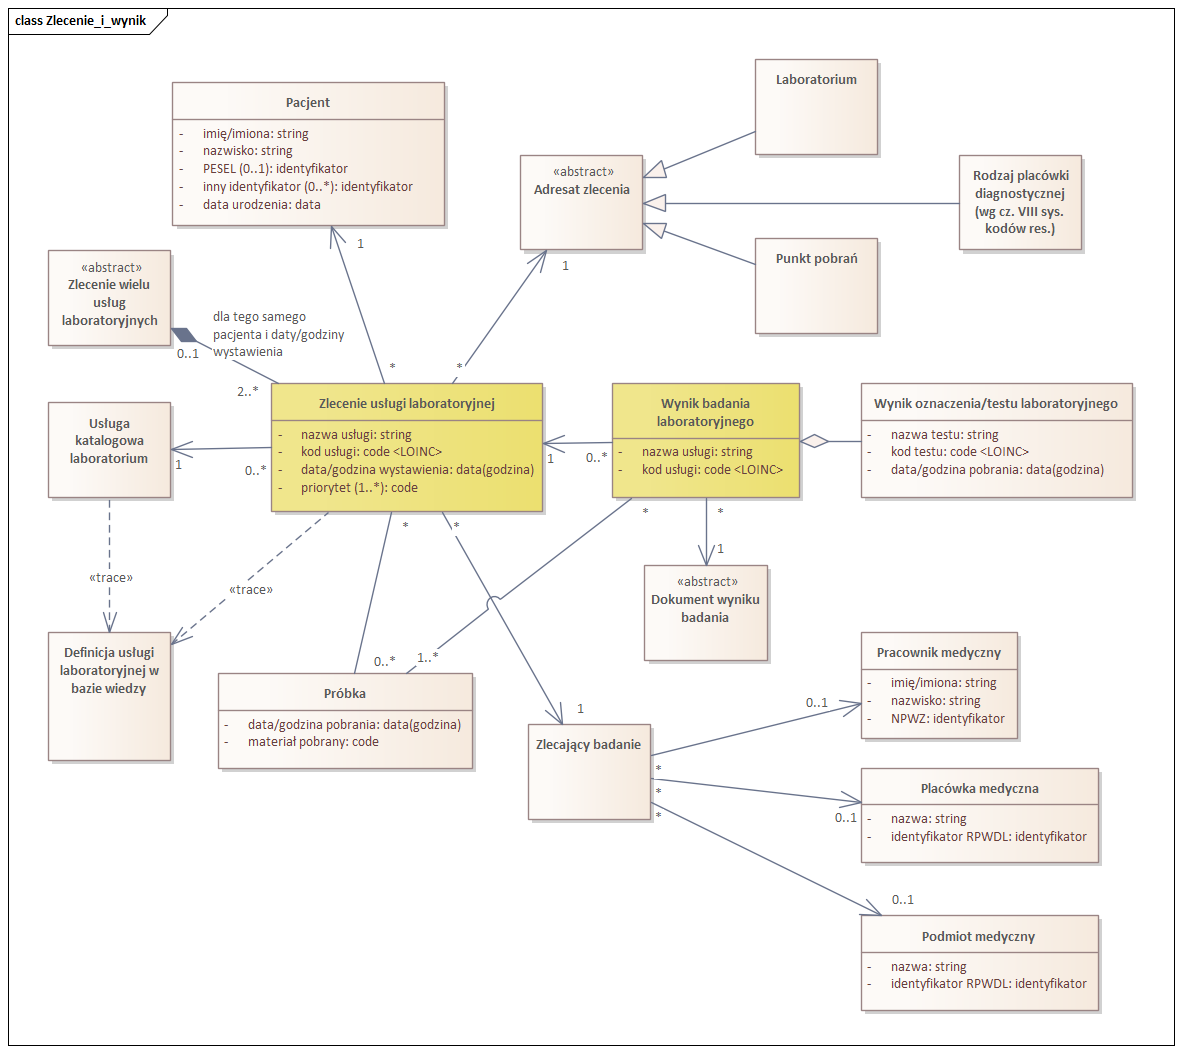
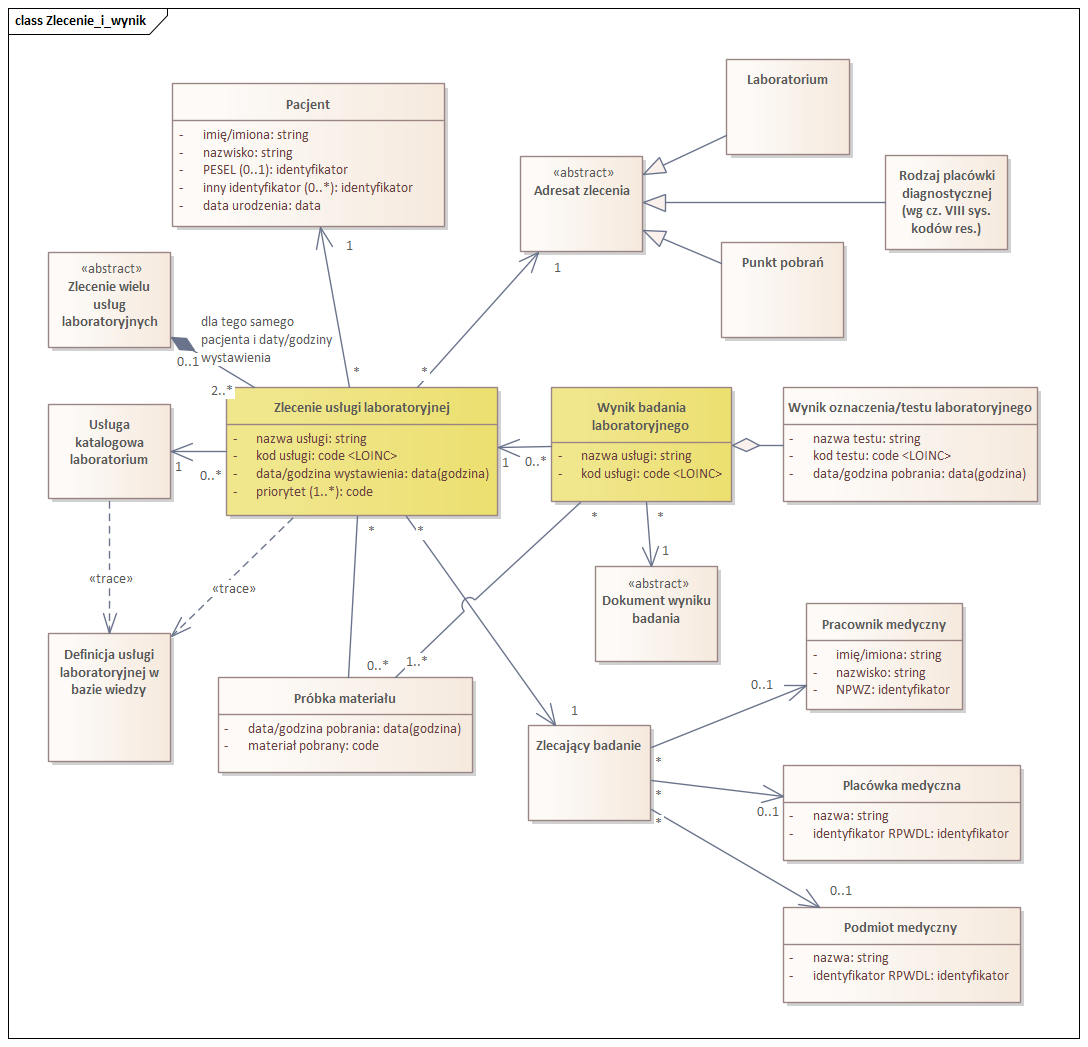
Cosmetics

diff --git a/input/pagecontent/index.md b/input/pagecontent/index.md
@@ -1,5 +1,7 @@
 Specyfikacja ma charakter roboczy i zawiera reguły wymiany danych w zakresie usług katalogowych i terminologicznych udostępnianych przez prototyp SSIDL (System Standaryzacji Informacji w Diagnostyce Laboratoryjnej). Specyfikacja powstała w ramach [projektu "Wdrożenie słownika LOINC w obszarze diagnostyki laboratoryjnej oraz opracowanie prototypu Systemu Standaryzacji Informacji w Diagnostyce Laboratoryjnej"](https://loinc-ssidl.umed.pl/) finansowanego ze środków Krajowego Planu Odbudowy i Zwiększania Odporności Komponent D Efektywność, dostępność i jakość systemu ochrony zdrowia Inwestycja D3.1.1 Kompleksowy rozwój badań w zakresie nauk medycznych i nauk o zdrowiu. Nr umowy: 2024/ABM/03/KPO/KPOD.07.07-IW.07-0171/24-00"
 
+![](assets\diagrams\SSIDL_logotyp_wersja_100x100.png)
+
 Głównym celem projektu jest rozwinięcie polskojęzycznej wersji systemu nazewnictwa LOINC oraz implementacja go do prototypu systemu SSIDL, który ułatwiłby wymianę danych dotyczących badań laboratoryjnych pomiędzy różnymi strukturami systemu ochrony zdrowia oraz pacjentem. Opracowanie i wdrożenie systemu opartego o nazewnictwo LOINC w laboratoriach ma na celu umożliwienie standaryzacji danych diagnostycznych, poprawę jakości i spójności raportów oraz integrację z innymi systemami informatycznymi.
 
 Specyfikacja jest powiązana z opracowywaną równolegle przez [Polskie Stowarzyszenie HL7](https://hl7.org.pl/) roboczą wersją specyfikacji krajowej dla diagnostyki laboratoryjnej oraz bazową specyfikacją krajową standardu HL7 FHIR i specyfikacjami europejskimi. Uzupełnieniem specyfikacji interperacyjności prototypu SSIDL jest [specyfikacja wymiany zleceń i wyników badań laboratoryjnych](exchange_artifacts.html), która również została opracowana w ramach projektu LOINC-SSIDL i docelowo ma stanowić część specyfikacji krajowej stnadardu HL7 FHIR dla diagnostyki laboratoryjnej.

diff --git a/input/pagecontent/exchange_model.md b/input/pagecontent/exchange_model.md
@@ -1,3 +1,3 @@
-Uzupełnieniem specyfikacji interoperacyjności prototypu SSIDL jest **Specyfikacja wymiany zleceń i wyników badań laboratoryjnych**, która została opracowana w ramach projektu LOINC-SSIDL i docelowo ma stanowić część powstającej równolegle specyfikacji krajowej standardu HL7 FHIR dla diagnostyki laboratoryjnej. Transakcje wymiany zleceń i wyników pomiędzy systemami szpitalno-gabinetowymi, a systemami laboratoryjnymi nie wymagają bezpośredniego udziału prototypu SSIDL, ale wchodzą w zakres testów intereorpacyjkności, które są planowane do przeprowadzenia w ramach etapu 3 projektu.
+Uzupełnieniem specyfikacji interoperacyjności prototypu SSIDL jest **Specyfikacja wymiany zleceń i wyników badań laboratoryjnych**, która została opracowana w ramach projektu LOINC-SSIDL i docelowo ma stanowić część powstającej równolegle specyfikacji krajowej standardu HL7 FHIR dla diagnostyki laboratoryjnej. Transakcje wymiany zleceń i wyników pomiędzy systemami szpitalno-gabinetowymi, a systemami laboratoryjnymi nie wymagają bezpośredniego udziału prototypu SSIDL, ale wchodzą w zakres testów interperacyjności (w formule Projectathon), które są planowane w ramach etapu 3 projektu.
 
 ![](assets\diagrams\Zlecenie_i_wynik.png)
